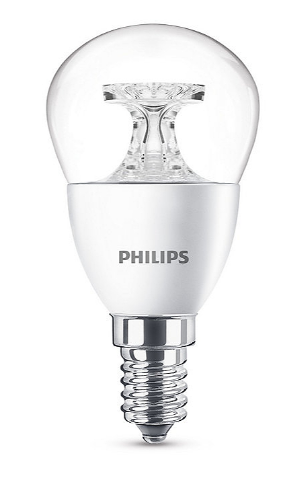
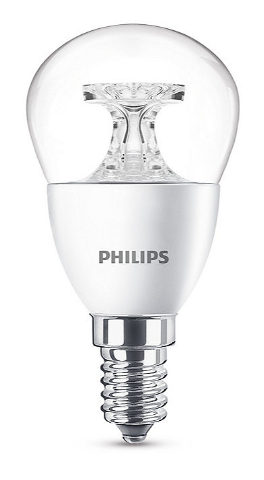
#8 responsywność

diff --git a/scss/slider.scss b/scss/slider.scss
@@ -30,9 +30,8 @@ body {
 }
 
 .SliderItem img {
-    margin-top:11%;
+    margin-top: 9rem;
     width: 100%;
-    vertical-align: middle;
     display: block;
 }
 
@@ -92,15 +91,16 @@ body {
     right: 0;
 }
 
-@media screen and (max-width: 1350px) {
+@media screen and (max-width: 1002px) {
     .SliderItemText123 {
         top:20%;
     }
     .SliderItem img {
-    width: 100%;
-    height:400px;
-    vertical-align: middle;
-    display: block;
+        margin-top: 6rem;
+        width: 100%;
+        height:400px;
+
+        display: block;
 }
 }
 
@@ -113,7 +113,6 @@ body {
     .SliderItem img {
     width: 100%;
     height:400px;
-    vertical-align: middle;
     display: block;
 }
 .textbox2 {

diff --git a/css/slider.css b/css/slider.css
@@ -28,9 +28,8 @@ body {
 }
 
 .SliderItem img {
-  margin-top: 11%;
+  margin-top: 9rem;
   width: 100%;
-  vertical-align: middle;
   display: block;
 }
 
@@ -92,14 +91,14 @@ body {
   right: 0;
 }
 
-@media screen and (max-width: 1350px) {
+@media screen and (max-width: 1002px) {
   .SliderItemText123 {
     top: 20%;
   }
   .SliderItem img {
+    margin-top: 6rem;
     width: 100%;
     height: 400px;
-    vertical-align: middle;
     display: block;
   }
 }
@@ -111,7 +110,6 @@ body {
   .SliderItem img {
     width: 100%;
     height: 400px;
-    vertical-align: middle;
     display: block;
   }
   .textbox2 {

diff --git a/index.html b/index.html
@@ -53,7 +53,9 @@
                 <a><img src="./images/Group 4924.svg" alt="🙍♂"></a>
                 <a><img src="./images/Group 4934.svg"></a>    
         </div>
-
+</header>
+<main>
+    <section>
         <div class="Slider">
             <div class="SliderItem">
                 <div class="SliderItemNumber">
@@ -119,15 +121,7 @@
             </div>
         </div>
     </div>
-
-</header>
-
-
-
-
-
-
-<main>
+    </section>
     <section>
         <h2>Polecane produkty</h2>
         <div class="czerwony"></div>

diff --git a/css/style.css b/css/style.css
@@ -324,4 +324,7 @@ c {
     display: flex;
     justify-content: space-around;
   }
+}
+main {
+  margin: 0.5em;
 }/*# sourceMappingURL=style.css.map */

diff --git a/scss/style.scss b/scss/style.scss
@@ -7,4 +7,6 @@
 
 // @use './footer.scss' as footer;
 // @include footer.footer;
-
+main{
+    margin: 0.5em;
+}
